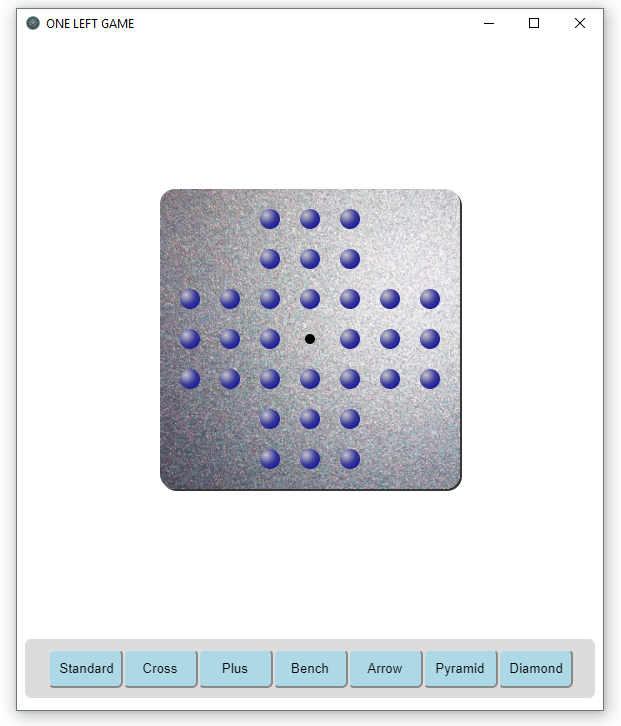
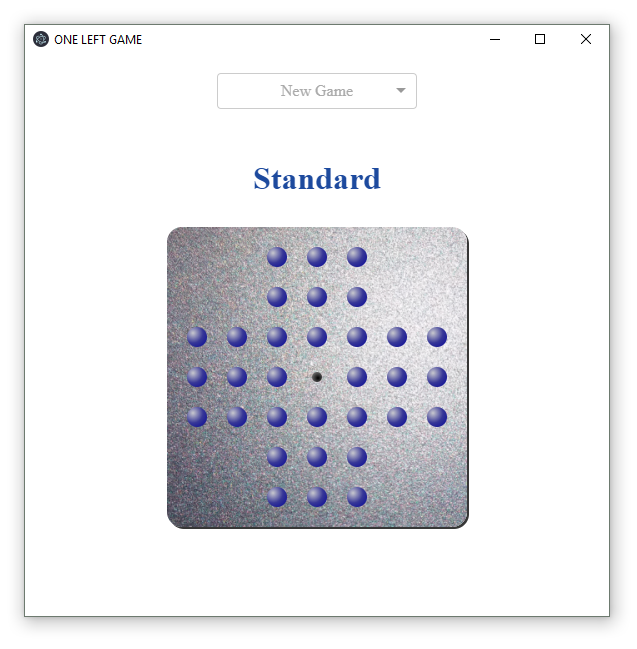
pin hovering, new screenshots

diff --git a/app/app.global.css b/app/app.global.css
@@ -37,7 +37,13 @@
     width: 20px;
     border-radius: 20px;
     background: radial-gradient(circle at 6px 6px,  rgb(200, 200, 206), rgb(55, 55, 151), rgb(5, 5, 151));
-  
+    transition: 0.1s;
+  }
+
+  .Pin:hover{
+    height: 25px;
+    width: 25px;
+    background: radial-gradient(circle at 6px 6px,  rgb(190, 190, 206), rgb(50, 50, 135), rgb(10, 10, 135));
   }
   
   .Hole{
@@ -45,13 +51,12 @@
     margin: 0 auto;
     height: 10px;
     width: 10px;
-    background: black;
+    background: radial-gradient(circle at 6px 6px,  black, rgb(145, 145, 145));
     border-radius: 10px;
-    
   }
   
   .Chosen{
-    background: radial-gradient(circle at 6px 6px,  rgb(232, 239, 245),  rgb(11, 173, 173), rgb(0, 78, 255));
+    background: radial-gradient(circle at 6px 6px,  rgb(232, 239, 245),  rgb(11, 173, 173), rgb(0, 78, 255)) !important;
     height: 22px;
     width: 22px;
   }

diff --git a/app/main.dev.js b/app/main.dev.js
@@ -63,10 +63,10 @@ app.on('ready', async () => {
   mainWindow = new BrowserWindow({
     show: false,
     width: 600,
-    height: 700
+    height: 600
   });
 
-  //mainWindow.setMenu(null);
+  mainWindow.setMenu(null);
 
   mainWindow.loadURL(`file://${__dirname}/app.html`);
 
